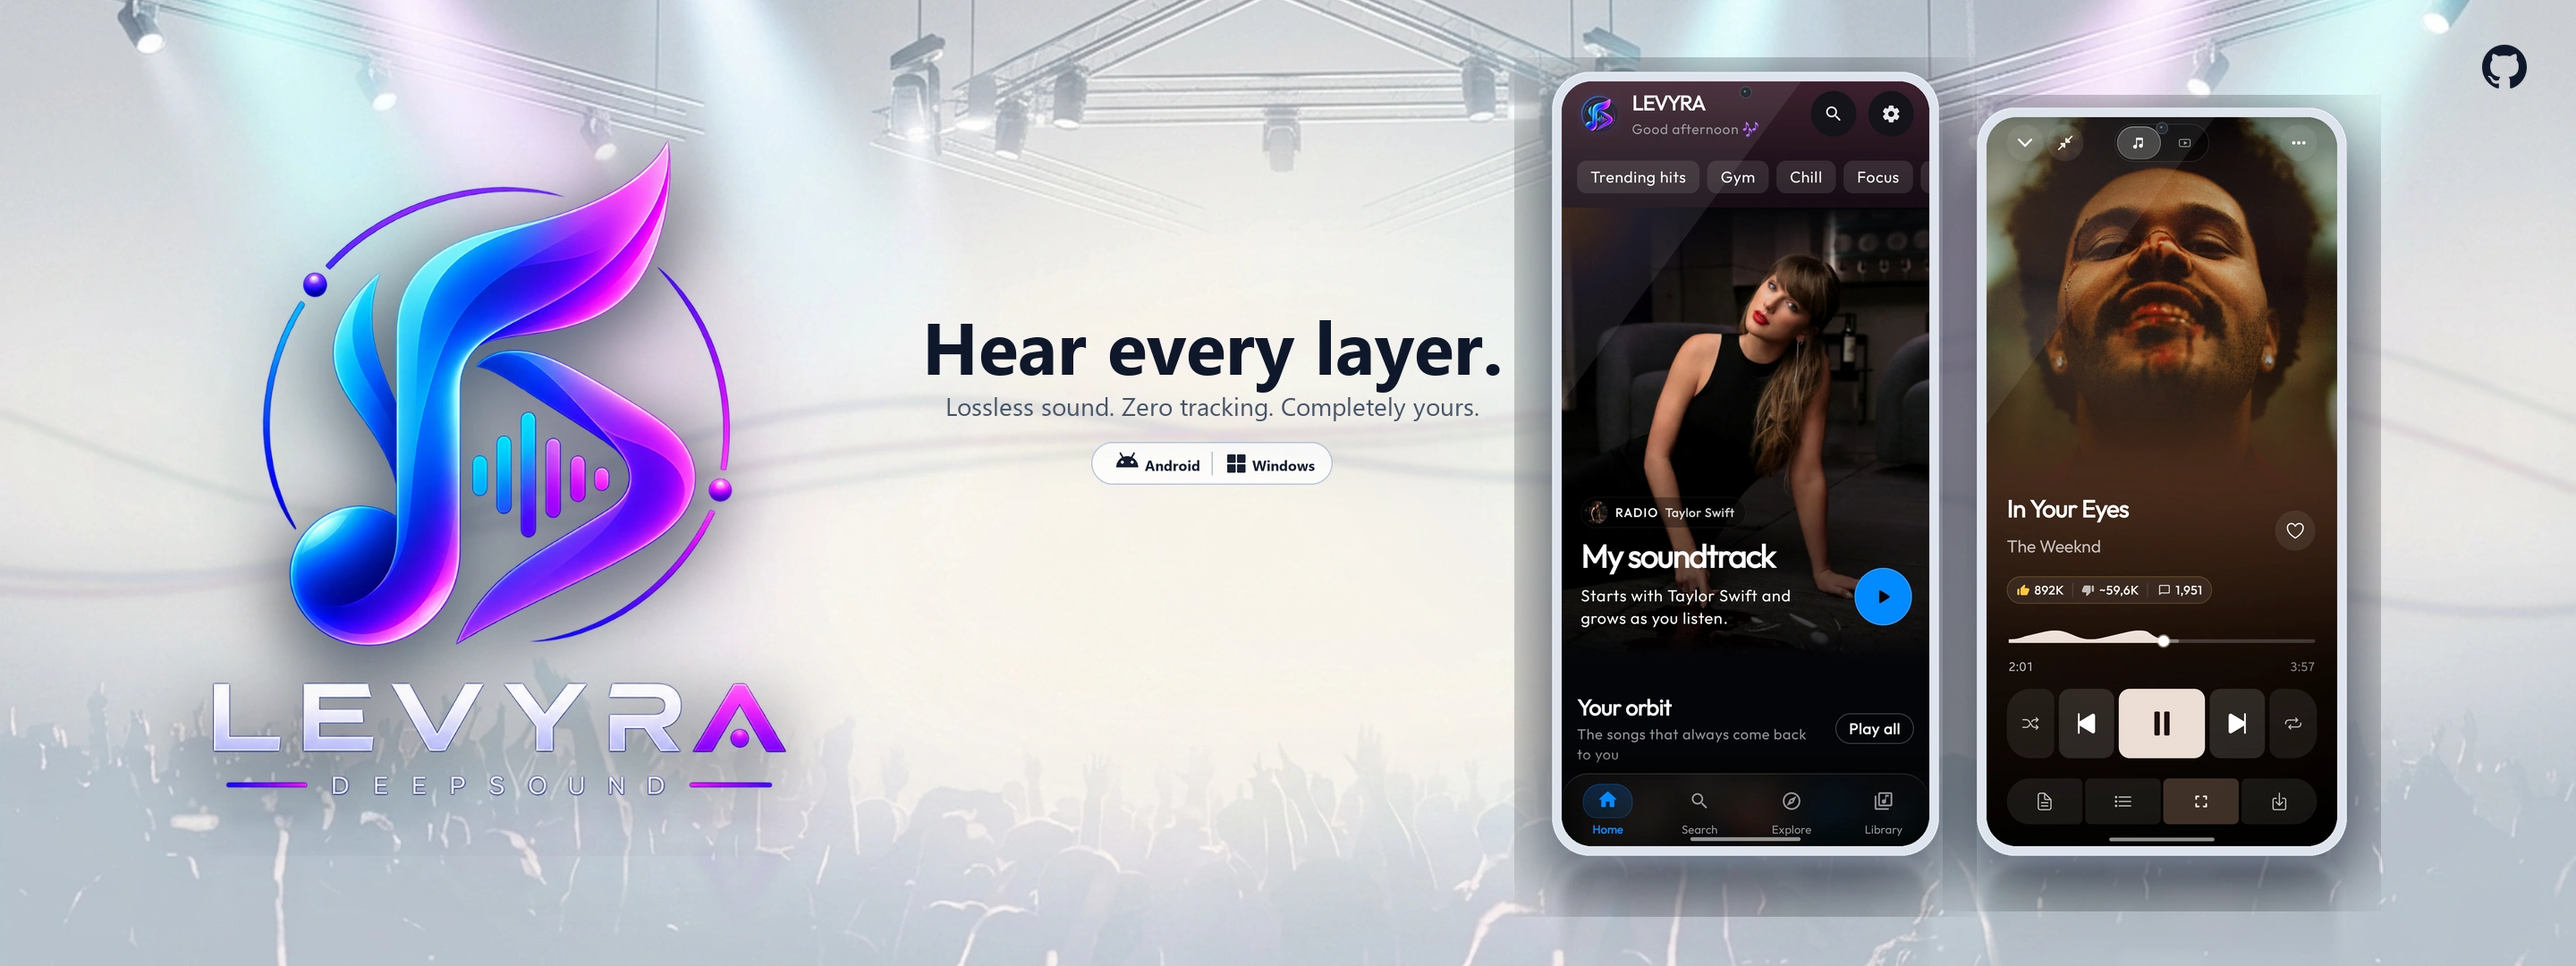
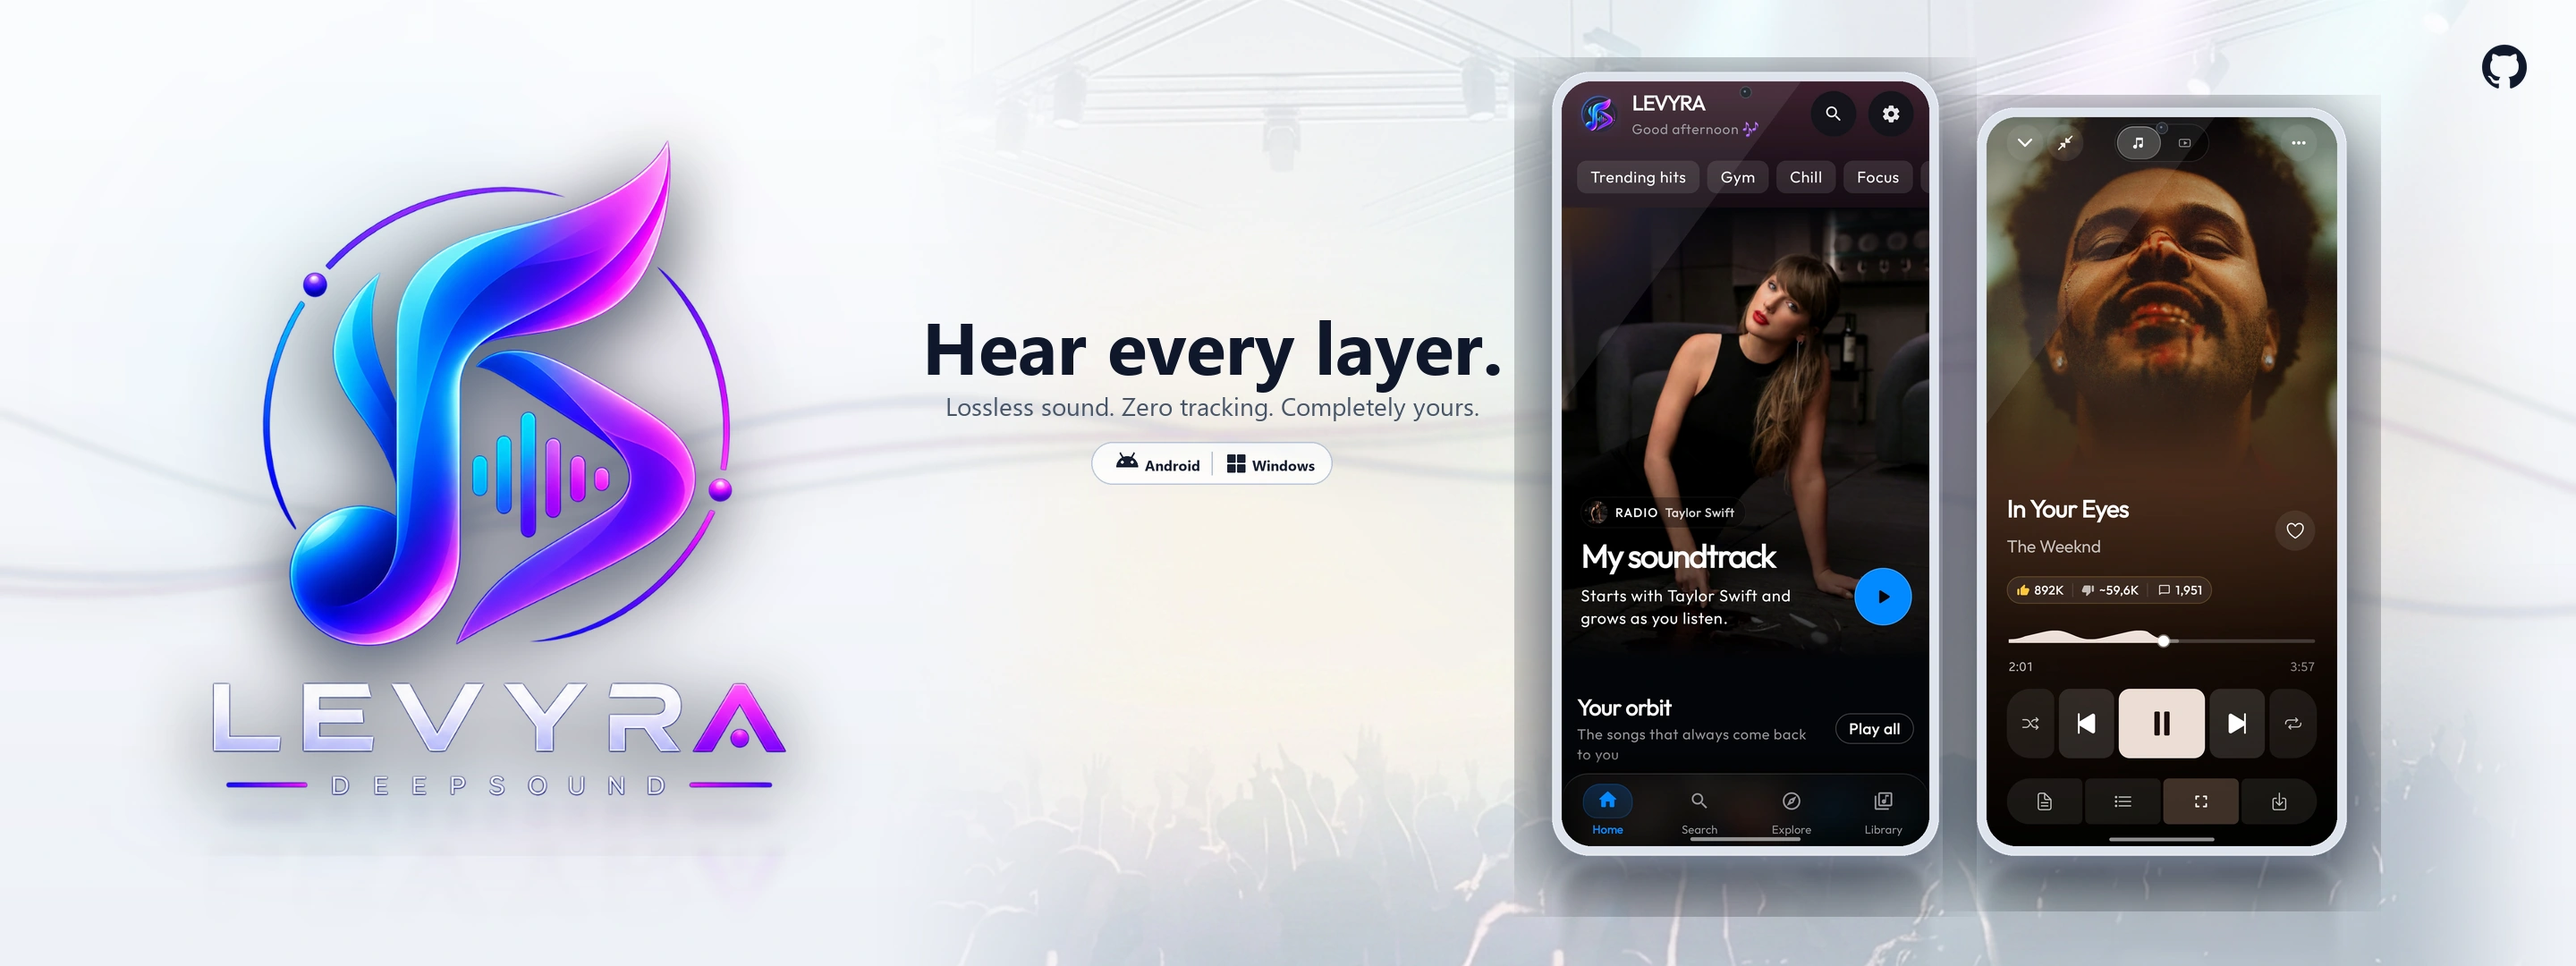
style: elevate concert crowd visibility with Tidal-inspired atmospheric backlighting

diff --git a/scripts/generate_main_banner.py b/scripts/generate_main_banner.py
@@ -34,7 +34,18 @@ SCREEN_PLAYER_PATH = resolve_input(
     os.path.join("docs", "assets", "showcase", "cards", "03_lyrics.webp")
 )
 
-BG_DARK_CONCERT = os.environ.get("LEVYRA_BG_DARK", r"C:\Users\Luca Drogo\.gemini\antigravity\brain\56548c8c-b7bc-4dce-809e-6e9d455ced20\minimal_concert_stage_1790508945319.jpg")
+def find_preferred_dark_bg():
+    paths = [
+        os.environ.get("LEVYRA_BG_DARK", ""),
+        r"C:\Users\Luca Drogo\.gemini\antigravity\brain\56548c8c-b7bc-4dce-809e-6e9d455ced20\musical_concert_stage_bg_1790508925612.jpg",
+        r"C:\Users\Luca Drogo\.gemini\antigravity\brain\56548c8c-b7bc-4dce-809e-6e9d455ced20\minimal_concert_stage_1790508945319.jpg",
+    ]
+    for p in paths:
+        if p and os.path.exists(p):
+            return p
+    return ""
+
+BG_DARK_CONCERT = find_preferred_dark_bg()
 BG_LIGHT_CONCERT = os.environ.get("LEVYRA_BG_LIGHT", r"C:\Users\Luca Drogo\.gemini\antigravity\brain\56548c8c-b7bc-4dce-809e-6e9d455ced20\light_concert_stage_1790508968511.jpg")
 
 OUTPUT_DARK_PATH = os.path.join(ASSETS_DIR, "levyra-github-banner.webp")
@@ -269,14 +280,58 @@ def create_glass_platform_pill(light_mode=False):
     return pill.resize((270, 48), Image.Resampling.LANCZOS)
 
 def generate_dark_unified_banner():
-    """Generates the dark mode unified banner with concert stage backdrop."""
-    # 1. Concert Stage Base Background
+    """Generates the dark mode unified banner with Tidal-style concert stage backdrop."""
+    canvas = Image.new("RGBA", (WIDTH, HEIGHT), (7, 9, 14, 255))
+
+    # 1. Tidal-Graded Concert Stage & Crowd
     if os.path.exists(BG_DARK_CONCERT):
-        bg_src = Image.open(BG_DARK_CONCERT).convert('RGBA')
+        bg_src = Image.open(BG_DARK_CONCERT).convert("RGB")
+        arr = np.array(bg_src, dtype=np.float32)
+
+        r = arr[:, :, 0]
+        g = arr[:, :, 1]
+        b = arr[:, :, 2]
+        lum = 0.299 * r + 0.587 * g + 0.114 * b
+
+        # Tidal grading: deep blacks, electric cobalt/cyan midtones, moody indigo
+        tidal_arr = np.zeros_like(arr)
+        tidal_arr[:, :, 0] = lum * 0.16 + (r * 0.04)
+        tidal_arr[:, :, 1] = lum * 0.52
+        tidal_arr[:, :, 2] = lum * 0.92 + (b * 0.28)
+        tidal_arr = np.clip(tidal_arr, 0, 255).astype(np.uint8)
+
+        stage_img = Image.fromarray(tidal_arr).convert("RGBA")
         new_w = WIDTH
-        new_h = int(bg_src.height * (WIDTH / float(bg_src.width)))
-        bg_resized = bg_src.resize((new_w, new_h), Image.Resampling.LANCZOS)
-        canvas = bg_resized.crop((0, 60, WIDTH, 60 + HEIGHT))
+        new_h = int(stage_img.height * (WIDTH / float(stage_img.width)))
+        stage_resized = stage_img.resize((new_w, new_h), Image.Resampling.LANCZOS)
+
+        crop_y = 290 if new_h > 1200 else 60
+        stage_crop = stage_resized.crop((0, crop_y, WIDTH, crop_y + HEIGHT))
+
+        # Precision Opacity Mask:
+        # Left side (x < 950): 100% black so the 3D logo has pure contrast and focus
+        # Center & right: smooth emergence of concert crowd silhouettes
+        # Top (y < 480): atmospheric darkening for typography clarity
+        # Far right (x > 2650): clean fade to black
+        mask = np.ones((HEIGHT, WIDTH), dtype=np.float32)
+        for x in range(WIDTH):
+            if x < 950:
+                mask[:, x] = 0.0
+            elif x < 1350:
+                fade = (x - 950) / 400.0
+                mask[:, x] *= fade * fade * (3.0 - 2.0 * fade)
+            elif x > 2650:
+                fade = 1.0 - (x - 2650) / 230.0
+                mask[:, x] *= fade * fade * (3.0 - 2.0 * fade)
+
+        for y in range(HEIGHT):
+            if y < 480:
+                fy = y / 480.0
+                mask[y, :] *= (0.15 + 0.85 * fy * fy)
+
+        stage_arr = np.array(stage_crop)
+        stage_arr[:, :, 3] = np.clip(mask * 255 * 0.90, 0, 255).astype(np.uint8)
+        canvas = Image.alpha_composite(canvas, Image.fromarray(stage_arr, "RGBA"))
     else:
         base_arr = np.zeros((HEIGHT, WIDTH, 4), dtype=np.uint8)
         for y in range(HEIGHT):
@@ -287,19 +342,7 @@ def generate_dark_unified_banner():
             base_arr[y, :, 3] = 255
         canvas = Image.fromarray(base_arr, "RGBA")
 
-    # 2. Ambient Concert Glow Highlights
-    glow_layer = Image.new("RGBA", (WIDTH, HEIGHT), (0, 0, 0, 0))
-    gdraw = ImageDraw.Draw(glow_layer)
-    for r in range(450, 0, -25):
-        gdraw.ellipse([480 - r, 420 - r, 480 + r, 420 + r], fill=(0, 210, 255, int(28 * (1.0 - (r / 450.0)**0.8))))
-        gdraw.ellipse([540 - r, 460 - r, 540 + r, 460 + r], fill=(195, 40, 230, int(22 * (1.0 - (r / 420.0)**0.8))))
-    for r in range(500, 0, -25):
-        gdraw.ellipse([2100 - r, 420 - r, 2100 + r, 420 + r], fill=(100, 60, 240, int(30 * (1.0 - (r / 500.0)**0.8))))
-        gdraw.ellipse([1850 - r, 360 - r, 1850 + r, 360 + r], fill=(0, 190, 255, int(26 * (1.0 - (r / 460.0)**0.8))))
-        gdraw.ellipse([2350 - r, 440 - r, 2350 + r, 440 + r], fill=(210, 35, 190, int(28 * (1.0 - (r / 440.0)**0.8))))
-    canvas = Image.alpha_composite(canvas, glow_layer.filter(ImageFilter.GaussianBlur(70)))
-
-    # 3. Acoustic Soundwave Ribbons (Music energy)
+    # 2. Acoustic Soundwave Ribbons (Music energy)
     ribbon_layer = Image.new("RGBA", (WIDTH, HEIGHT), (0, 0, 0, 0))
     rdraw = ImageDraw.Draw(ribbon_layer)
     pts_cyan, pts_mag, pts_indigo = [], [], []
@@ -311,24 +354,24 @@ def generate_dark_unified_banner():
         pts_mag.append((x, ym))
         pts_indigo.append((x, yi))
     for i in range(len(pts_cyan) - 1):
-        rdraw.line([pts_indigo[i], pts_indigo[i+1]], fill=(35, 85, 215, 45), width=8)
-        rdraw.line([pts_mag[i], pts_mag[i+1]], fill=(195, 40, 215, 50), width=6)
-        rdraw.line([pts_cyan[i], pts_cyan[i+1]], fill=(0, 225, 255, 55), width=4)
-    canvas = Image.alpha_composite(canvas, ribbon_layer.filter(ImageFilter.GaussianBlur(25)))
+        rdraw.line([pts_indigo[i], pts_indigo[i+1]], fill=(30, 80, 210, 35), width=7)
+        rdraw.line([pts_mag[i], pts_mag[i+1]], fill=(180, 35, 205, 38), width=5)
+        rdraw.line([pts_cyan[i], pts_cyan[i+1]], fill=(0, 220, 255, 45), width=3)
+    canvas = Image.alpha_composite(canvas, ribbon_layer.filter(ImageFilter.GaussianBlur(26)))
     canvas = Image.alpha_composite(canvas, ribbon_layer.filter(ImageFilter.GaussianBlur(4)))
 
-    # 4. Stage Floor Plane
+    # 3. Stage Floor Plane
     floor_y = 865
     floor_layer = Image.new("RGBA", (WIDTH, HEIGHT), (0, 0, 0, 0))
     fdraw = ImageDraw.Draw(floor_layer)
-    fdraw.line([(0, floor_y), (WIDTH, floor_y)], fill=(70, 95, 140, 80), width=1)
+    fdraw.line([(0, floor_y), (WIDTH, floor_y)], fill=(50, 80, 130, 50), width=1)
     for r in range(400, 0, -25):
-        fdraw.ellipse([480 - r, floor_y + 45 - int(r*0.20), 480 + r, floor_y + 45 + int(r*0.20)], fill=(0, 190, 255, int(28 * (1.0 - (r / 400.0)))))
-        fdraw.ellipse([580 - r, floor_y + 55 - int(r*0.18), 580 + r, floor_y + 55 + int(r*0.18)], fill=(190, 45, 220, int(28 * (1.0 - (r / 400.0)))))
+        fdraw.ellipse([480 - r, floor_y + 45 - int(r*0.20), 480 + r, floor_y + 45 + int(r*0.20)], fill=(0, 180, 255, int(22 * (1.0 - (r / 400.0)))))
+        fdraw.ellipse([580 - r, floor_y + 55 - int(r*0.18), 580 + r, floor_y + 55 + int(r*0.18)], fill=(180, 40, 210, int(22 * (1.0 - (r / 400.0)))))
     for r in range(450, 0, -25):
-        fdraw.ellipse([2120 - r, floor_y + 45 - int(r*0.20), 2120 + r, floor_y + 45 + int(r*0.20)], fill=(80, 110, 235, int(30 * (1.0 - (r / 450.0)))))
-        fdraw.ellipse([1850 - r, floor_y + 50 - int(r*0.18), 1850 + r, floor_y + 50 + int(r*0.18)], fill=(0, 205, 255, int(30 * (1.0 - (r / 450.0)))))
-        fdraw.ellipse([2350 - r, floor_y + 50 - int(r*0.18), 2350 + r, floor_y + 50 + int(r*0.18)], fill=(200, 45, 200, int(30 * (1.0 - (r / 450.0)))))
+        fdraw.ellipse([2120 - r, floor_y + 45 - int(r*0.20), 2120 + r, floor_y + 45 + int(r*0.20)], fill=(70, 100, 230, int(25 * (1.0 - (r / 450.0)))))
+        fdraw.ellipse([1850 - r, floor_y + 50 - int(r*0.18), 1850 + r, floor_y + 50 + int(r*0.18)], fill=(0, 195, 255, int(25 * (1.0 - (r / 450.0)))))
+        fdraw.ellipse([2350 - r, floor_y + 50 - int(r*0.18), 2350 + r, floor_y + 50 + int(r*0.18)], fill=(190, 40, 190, int(25 * (1.0 - (r / 450.0)))))
     floor_layer = floor_layer.filter(ImageFilter.GaussianBlur(32))
     canvas = Image.alpha_composite(canvas, floor_layer)
 
@@ -399,21 +442,44 @@ def generate_dark_unified_banner():
 def generate_light_unified_banner():
     """Generates the light mode unified banner with concert stage backdrop."""
     # 1. Concert Stage Base Background (Light Mode)
+    base_arr = np.zeros((HEIGHT, WIDTH, 4), dtype=np.uint8)
+    for y in range(HEIGHT):
+        ratio = y / float(HEIGHT)
+        base_arr[y, :, 0] = int(252 - ratio * 14)
+        base_arr[y, :, 1] = int(253 - ratio * 12)
+        base_arr[y, :, 2] = int(255 - ratio * 8)
+        base_arr[y, :, 3] = 255
+    canvas = Image.fromarray(base_arr, "RGBA")
+
     if os.path.exists(BG_LIGHT_CONCERT):
-        bg_src = Image.open(BG_LIGHT_CONCERT).convert('RGBA')
+        bg_src = Image.open(BG_LIGHT_CONCERT).convert("RGBA")
         new_w = WIDTH
         new_h = int(bg_src.height * (WIDTH / float(bg_src.width)))
         bg_resized = bg_src.resize((new_w, new_h), Image.Resampling.LANCZOS)
-        canvas = bg_resized.crop((0, 60, WIDTH, 60 + HEIGHT))
-    else:
-        base_arr = np.zeros((HEIGHT, WIDTH, 4), dtype=np.uint8)
+        stage_crop = bg_resized.crop((0, 60, WIDTH, 60 + HEIGHT))
+
+        # Precision Opacity Mask for Light Mode:
+        # Left side (x < 950): clean isolated background for logo focus
+        # Center & right: graceful emergence of concert crowd silhouettes
+        mask = np.ones((HEIGHT, WIDTH), dtype=np.float32)
+        for x in range(WIDTH):
+            if x < 950:
+                mask[:, x] = 0.0
+            elif x < 1350:
+                fade = (x - 950) / 400.0
+                mask[:, x] *= fade * fade * (3.0 - 2.0 * fade)
+            elif x > 2650:
+                fade = 1.0 - (x - 2650) / 230.0
+                mask[:, x] *= fade * fade * (3.0 - 2.0 * fade)
+
         for y in range(HEIGHT):
-            ratio = y / float(HEIGHT)
-            base_arr[y, :, 0] = int(252 - ratio * 14)
-            base_arr[y, :, 1] = int(253 - ratio * 12)
-            base_arr[y, :, 2] = int(255 - ratio * 8)
-            base_arr[y, :, 3] = 255
-        canvas = Image.fromarray(base_arr, "RGBA")
+            if y < 450:
+                fy = y / 450.0
+                mask[y, :] *= (0.3 + 0.7 * fy * fy)
+
+        stage_arr = np.array(stage_crop)
+        stage_arr[:, :, 3] = np.clip(mask * stage_arr[:, :, 3].astype(np.float32), 0, 255).astype(np.uint8)
+        canvas = Image.alpha_composite(canvas, Image.fromarray(stage_arr, "RGBA"))
 
     # 2. Soft Ambient Pastel Glows
     glow_layer = Image.new("RGBA", (WIDTH, HEIGHT), (0, 0, 0, 0))
